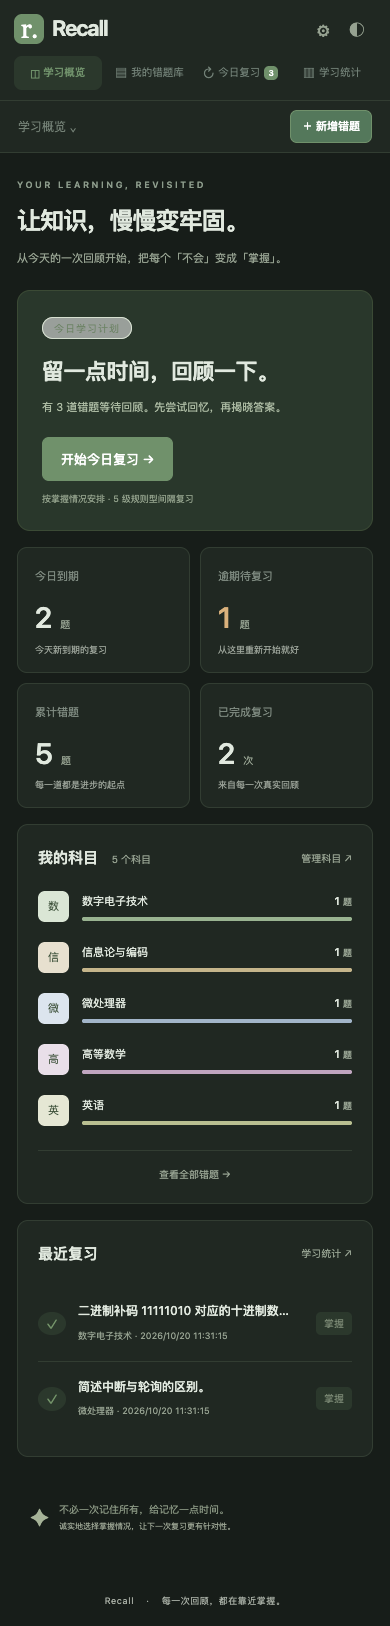
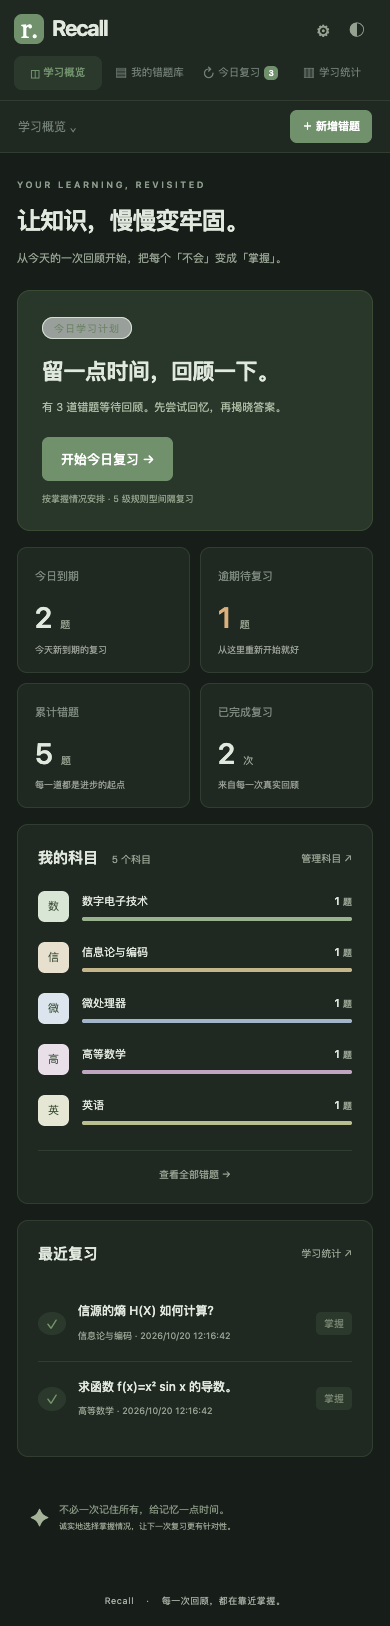
docs: add live demo, production screenshots and verified release results

Changed region(s): [[0.1846, 0.7995, 0.7077, 0.8918], [0.7385, 0.0615, 0.9538, 0.0923]]

diff --git a/README.md b/README.md
@@ -4,15 +4,16 @@
 
 用来集中整理大学课程错题：留下题目、解法和自己的理解，然后按透明的规则每天回顾一点。以实际可用和数据可控为目标，网站运行不需要服务器数据库、付费服务或大模型 API Key。
 
-> 本地版本已完成，公开发布已获项目所有者授权。目标仓库为 `cym7777/Recall`；公开仓库已创建：[cym7777/Recall](https://github.com/cym7777/Recall)。源码上传及 Pages 部署进行中。
+> **在线体验：[Recall](https://cym7777.github.io/Recall/)** · **源码：[cym7777/Recall](https://github.com/cym7777/Recall)**
+> 已通过 GitHub Pages 免费部署。学习数据保存在用户当前浏览器中，不上传到仓库，**不会自动跨设备同步**。
 
 **29 项测试及检查通过：9 项模型测试 + 20 项浏览器检查。** 覆盖错题增删改查、图片持久化、五级调度、并发去重、备份恢复、关闭浏览器后重启和响应式页面。详细范围及未验证事项见 [测试报告](docs/TESTING.md)。
 
-计划在线体验地址：`https://cym7777.github.io/Recall/`（部署完成前不可用）。数据保存在用户当前浏览器的 IndexedDB 中，**不会自动跨设备同步**。
+发布后已在正式地址完成全部 20 项浏览器检查，页面无未捕获异常；8 个静态资源均返回 200，并与审查后的源码一致。GitHub Actions 的 9 项模型测试与 20 项浏览器检查也已通过。[线上验证记录](docs/ONLINE-VERIFICATION.md)。
 
 ## 界面预览
 
-以下截图全部来自隔离测试环境，题目与记录均为虚构测试数据，不代表真实用户学习成果。正式首次打开仅初始化科目，不填入任何错题或复习成绩。
+以下截图来自正式 Pages 地址的独立测试浏览器，题目与记录均为虚构测试数据，不代表真实用户学习成果。正式首次打开仅初始化科目，不填入任何错题或复习成绩。
 
 ![学习概览](docs/screenshots/dashboard-desktop.png)
 
@@ -56,7 +57,7 @@ npm start
 python3 -m http.server 4173 --bind 127.0.0.1
 ```
 
-必须在项目根目录启动，不要直接双击 HTML（ES Modules 需要 HTTP）。Node 服务器只监听本机；需要其他设备访问时可用受信任的静态服务器或等待部署。
+必须在项目根目录启动，不要直接双击 HTML（ES Modules 需要 HTTP）。Node 服务器只监听本机；需要其他设备访问时可用受信任的静态服务器。
 
 ### 测试
 
@@ -70,7 +71,7 @@ npm run test:browser
 
 也支持 pnpm，锁文件为 `pnpm-lock.yaml`：`pnpm install --frozen-lockfile`。Playwright 与 Prettier 均仅为开发依赖，运行网站没有第三方依赖和 CDN 请求。
 
-测试自动创建独立临时浏览器环境，不连接真实个人数据库。浏览器测试会重新生成虚构数据截图。可设置 `RECALL_URL` 指向本地测试服务器；`RECALL_BROWSER` 用于指定测试浏览器可执行文件；`RECALL_PLAYWRIGHT_PATH` 是开发环境可选的模块入口路径。
+测试自动创建独立临时浏览器环境，不连接真实个人数据库。浏览器测试会重新生成虚构数据截图。可设置 `RECALL_URL` 指向本地测试服务器；`RECALL_BROWSER` 用于指定测试浏览器可执行文件；`RECALL_PLAYWRIGHT_PATH` 是开发环境可选的模块入口路径；`RECALL_PROXY` 可指定已有的浏览器测试代理。
 
 详见 [测试结果](docs/TESTING.md)。源码格式化：`npm run format`。
 
@@ -132,7 +133,7 @@ scripts/serve.mjs         零依赖本地 HTTP 服务
 1. 在 `cym7777` 账号创建公开仓库 `Recall`，将本项目作为独立仓库推送到 `main`，避免包含备份、个人数据、密钥及其他项目。
 2. 仓库 Settings → Pages → Source 选择 **GitHub Actions**。
 3. Actions 中手动运行 **Deploy Recall to GitHub Pages**。部署工作流仅支持手动触发，不会因为提交代码自动发布。
-4. 成功后以工作流返回的 URL 为准。预期项目站点路径为 `https://cym7777.github.io/Recall/`，此地址目前未验证、尚未部署。
+4. 正式站点为 **[https://cym7777.github.io/Recall/](https://cym7777.github.io/Recall/)**，已实际部署并验证。后续更新通过同一工作流手动部署。
 
 所有资源使用相对路径，支持 `/Recall/` 子路径。GitHub Pages 只托管静态文件，每位访问者的数据独立保存在自己的浏览器中。
 

diff --git a/docs/ONLINE-VERIFICATION.md b/docs/ONLINE-VERIFICATION.md
@@ -1,0 +1,47 @@
+# 正式站点验证
+
+日期：2026-10-20（Asia/Shanghai）。
+
+- 仓库：[cym7777/Recall](https://github.com/cym7777/Recall)
+- 正式体验：[Recall](https://cym7777.github.io/Recall/)
+- 首次源代码快照：`4e1ae34449981b6594e264629fd830bb4b0fa67b`
+- 远程检查：[Recall checks #1](https://github.com/cym7777/Recall/actions/runs/39368572294)，成功。
+- 首次部署：[Deploy Recall to GitHub Pages #1](https://github.com/cym7777/Recall/actions/runs/39368640317)，成功。
+
+## 29 项测试及检查
+
+GitHub Actions 的 9 项模型测试和 20 项浏览器检查全部通过。部署后在正式 Pages 地址重新执行同一套 20 项浏览器检查，全部通过；这些是对相同用例的再次执行，不将其重复计为额外的独立用例。
+
+测试在独立临时浏览器环境中使用虚构题目执行，不读取或覆盖个人浏览器的数据。实际完成新增、编辑、搜索与筛选、图片上传/粘贴/刷新、答案揭晓、复习反馈、等级调度、重复提交去重、历史、统计、JSON 完整恢复、异常文件处理和删除确认。使用临时磁盘 profile 关闭整个 Chrome 并重新启动，题目、可解码图片及历史仍保留。
+
+三个视口（1440×1000、820×1180、390×844）检查六个主要页面无横向溢出；深浅色切换与主题保存通过。页面未捕获异常为 0。配额错误回滚是测试事务内注入的模拟异常，不宣称实际填满设备磁盘。
+
+## /Recall/ 子路径与资源验证
+
+通过 HTTPS GET 正式站点，各文件逐字节比较与审查后的本地源码一致：
+
+| 文件          | HTTP 状态 | 源码比较 |
+| ------------- | --------- | -------- |
+| index.html    | 200       | 一致     |
+| favicon.svg   | 200       | 一致     |
+| src/style.css | 200       | 一致     |
+| src/app.js    | 200       | 一致     |
+| src/model.js  | 200       | 一致     |
+| src/db.js     | 200       | 一致     |
+| src/images.js | 200       | 一致     |
+| src/backup.js | 200       | 一致     |
+
+题目图片以 Data URL 存在当前浏览器 IndexedDB 中，线上上传与重载检查验证了图片可正常解码显示。README 的截图存放在仓库 docs/screenshots，均为正式站点测试时的真实渲染画面；截图中的题目与学习记录是虚构测试数据。
+
+## 复现
+
+```sh
+# 按 README 安装依赖及 Chromium 后，在项目目录执行
+RECALL_URL=https://cym7777.github.io/Recall npm run test:browser
+```
+
+如本机已有代理，可通过 `RECALL_PROXY` 指定其地址；不需要大模型 API Key，也不需要为测试创建 GitHub 密钥。页面的本地数据库属于当前浏览器及当前站点来源，不会自动跨设备同步。
+
+## 验证限制
+
+尚未在真实 iPad/iPhone、Safari 或 Firefox 上验证；响应式结果来自桌面 Chrome 的视口检查。尚未进行大规模数据压力测试。本次网络访问通过已有代理完成，不代表各网络地区的连通性。浏览器清理或回收存储仍可能导致丢失，需要定期导出备份。

diff --git a/docs/RELEASE.md b/docs/RELEASE.md
@@ -15,8 +15,19 @@
 
 ## 当前状态
 
-目标账号 cym7777 已登录，公开仓库 https://github.com/cym7777/Recall 已创建。已连接 GitHub 认证确认拥有仓库管理与推送权限；源码上传及 Pages 配置进行中。未创建或存储新密钥。
+公开仓库：https://github.com/cym7777/Recall
 
-## 部署后验证（尚未执行）
+免费 GitHub Pages：https://cym7777.github.io/Recall/
 
-在独立浏览器环境访问实际 Pages 地址，验证页面、CSS、JavaScript 与图片资源加载，并实际完成新增错题、揭晓答案及复习提交、统计更新、刷新保存和浏览器重启持久化。只有验证通过后，才将 README 中的计划地址更新为已上线体验地址。
+目标账号认证确认具有仓库管理与推送权限，源码通过已连接的 GitHub 认证上传；没有创建或存储新密钥。Pages 来源为 GitHub Actions，HTTPS 强制开启。
+
+## 实际验证
+
+- GitHub Actions 的 9 项模型测试和 20 项浏览器检查通过。
+- Pages 首次部署成功：[部署记录](https://github.com/cym7777/Recall/actions/runs/39368640317)。
+- 正式 Pages 地址的全部 20 项浏览器检查通过，未捕获页面异常。
+- HTML、SVG 图标、CSS 与全部 ES Modules 的 8 个资源均返回 200，与审查后的本地文件逐字节一致。
+- 线上隔离测试实际执行了新增/编辑/删除、图片保存、复习等级与记录、统计、备份导入导出、跨天及浏览器关闭重开持久化。
+- 重新生成真实线上界面截图，所有题目和记录均为虚构的测试数据。
+
+详细验证范围、测试方法及限制见 [线上验证记录](ONLINE-VERIFICATION.md)。

diff --git a/docs/TESTING.md b/docs/TESTING.md
@@ -62,13 +62,13 @@ npm test
 npm run test:browser
 ```
 
-阶段门槛可通过 `RECALL_PHASE=1`、`2`、`3` 运行阶段子集。未设置则运行全部。GitHub Actions 检查配置已准备，尚未在远程执行；Pages 工作流尚未运行。
+阶段门槛可通过 `RECALL_PHASE=1`、`2`、`3` 运行阶段子集。未设置则运行全部。GitHub Actions 检查与 Pages 工作流已成功执行。2026-10-20 在正式 Pages 地址重新运行全部 20 项浏览器检查，全部通过，未捕获页面异常；8 个静态资源检查通过。详见 [线上验证记录](ONLINE-VERIFICATION.md)。
 
 ## 未验证范围
 
 - 实体 iPad、iPhone、Safari、Firefox；现有手机与 iPad 结论仅为桌面 Chrome 的视口检查。
 - 设备真实磁盘耗尽、浏览器自动回收与浏览器损坏；配额失败检查为事务中主动注入异常。
 - 数万题、大量图片与接近导入文件上限的性能压力。
-- 公开 GitHub 仓库、GitHub Actions 和 Pages 实际线上部署（等待所有者授权）。
+- 全球不同网络区域的访问质量；线上功能验证使用现有代理完成。
 
 IndexedDB 持久化仍需配合定期导出备份，测试不能替代备份。
